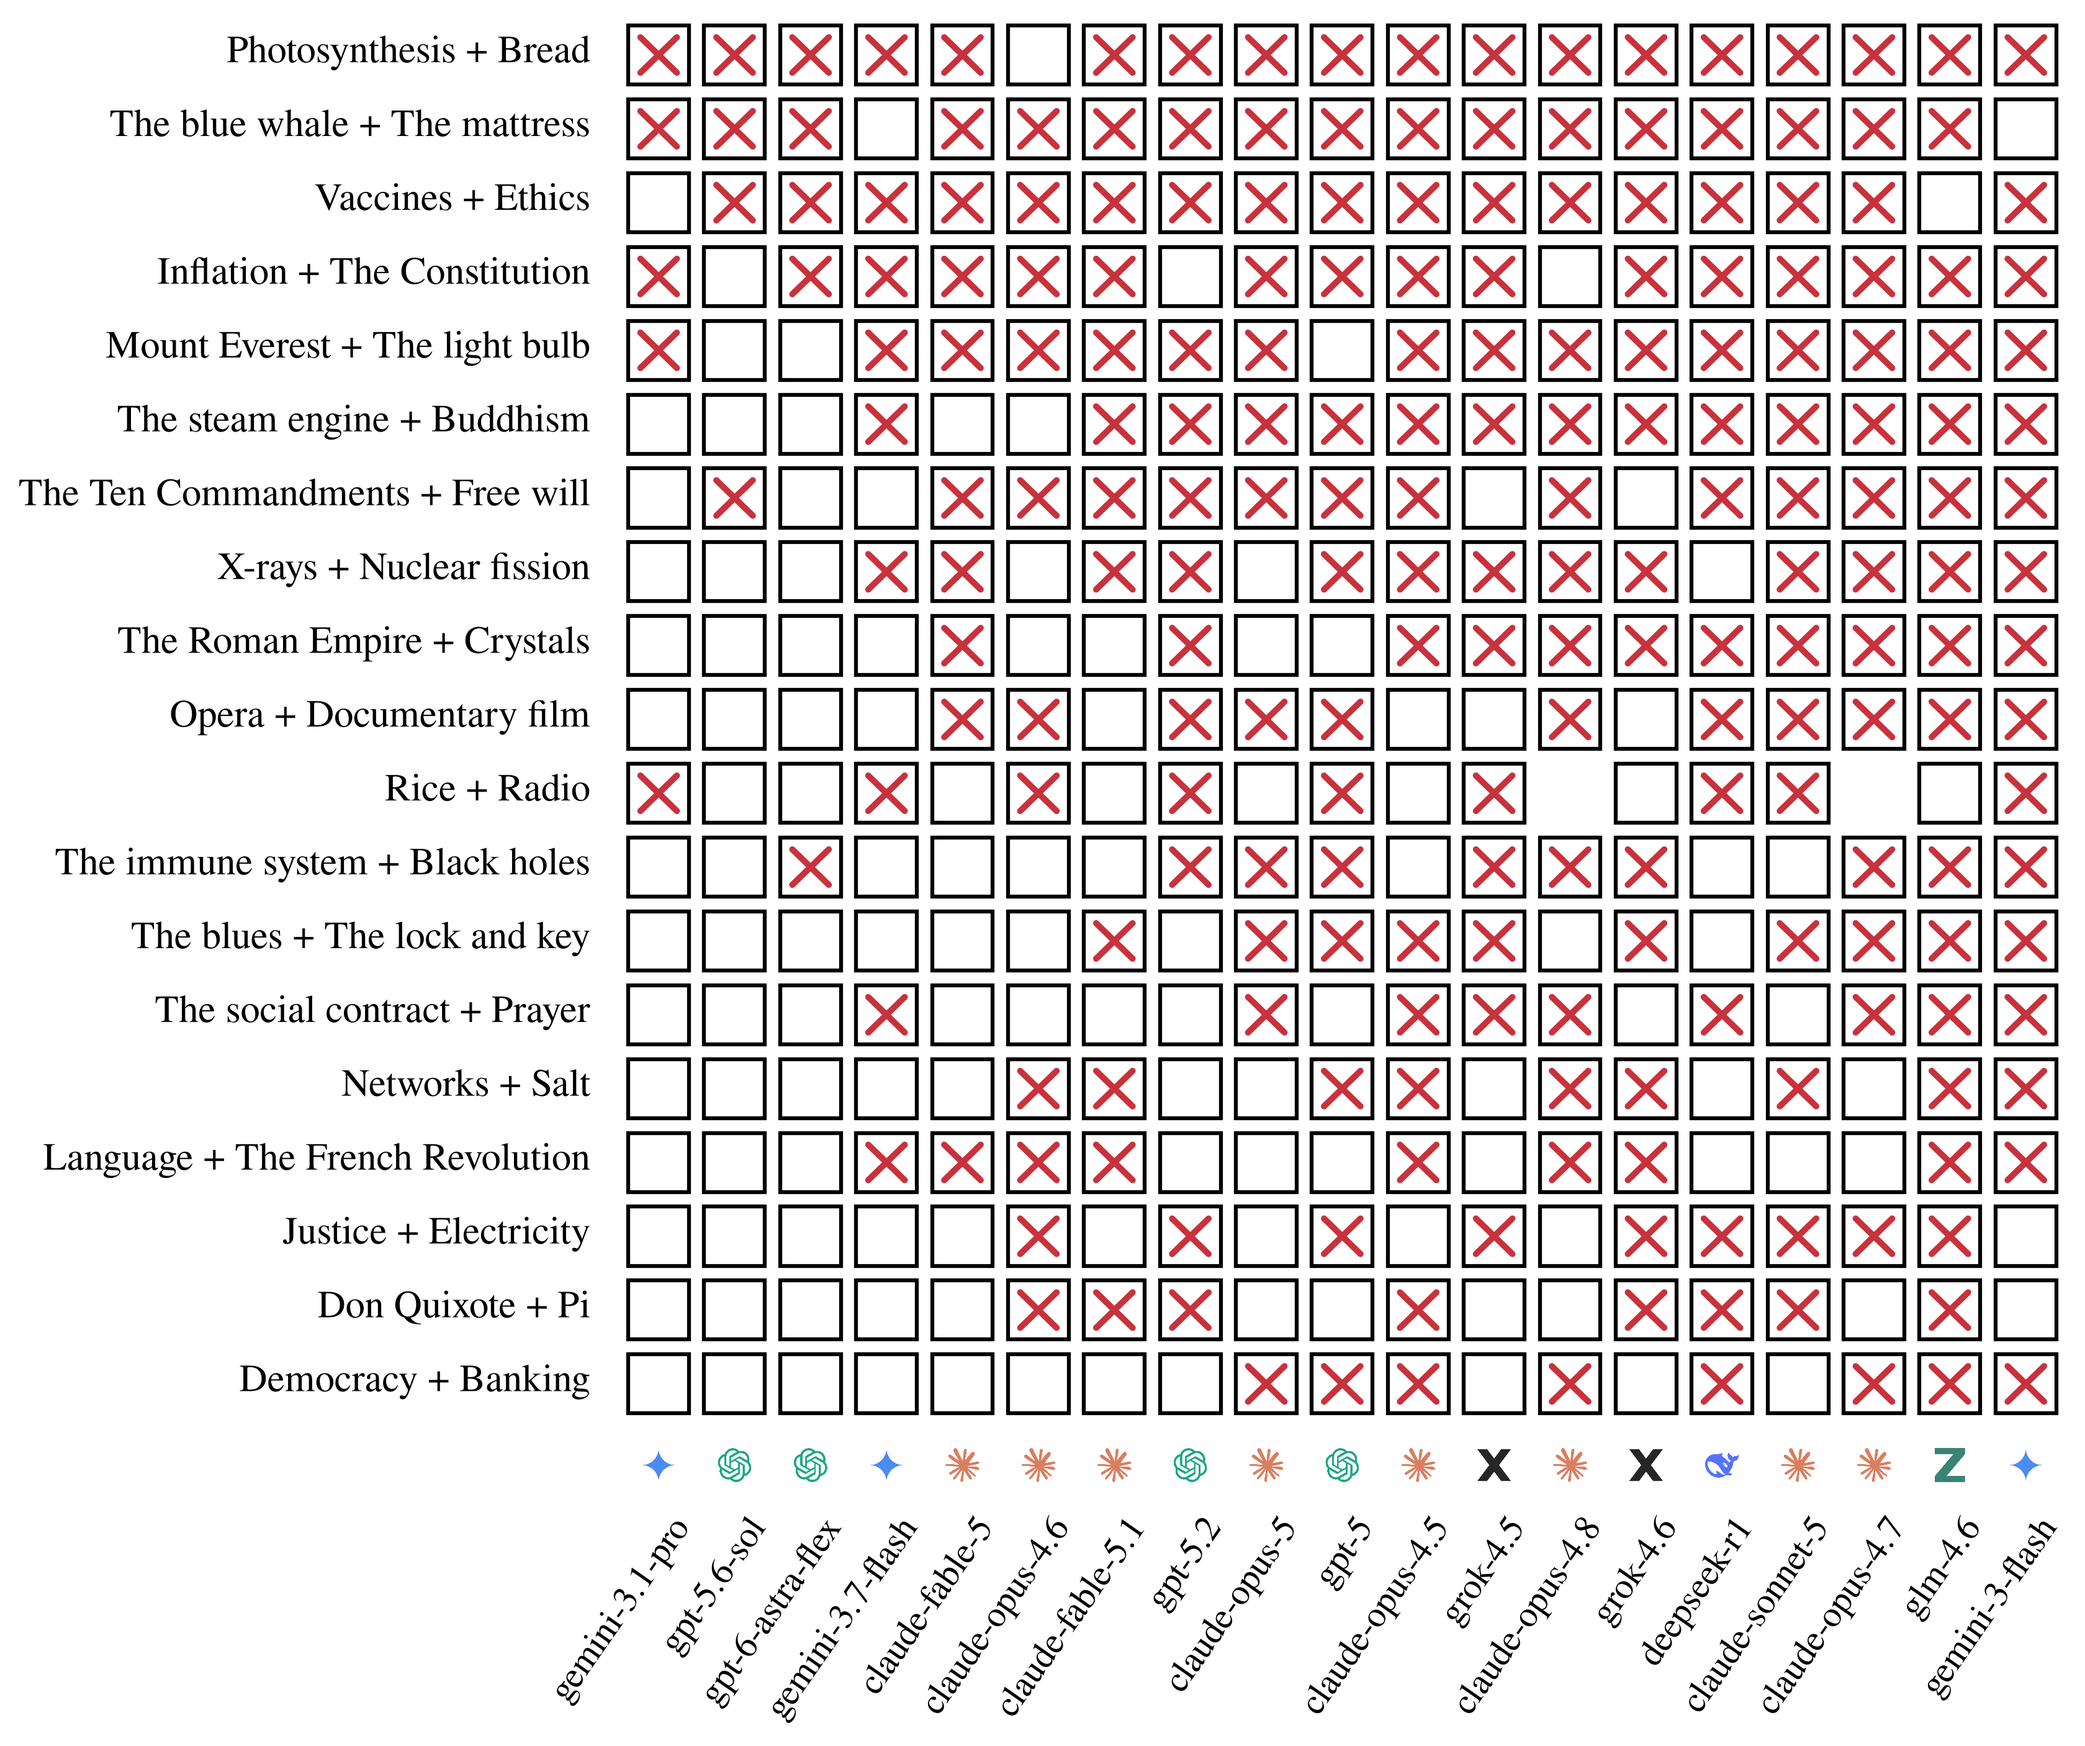
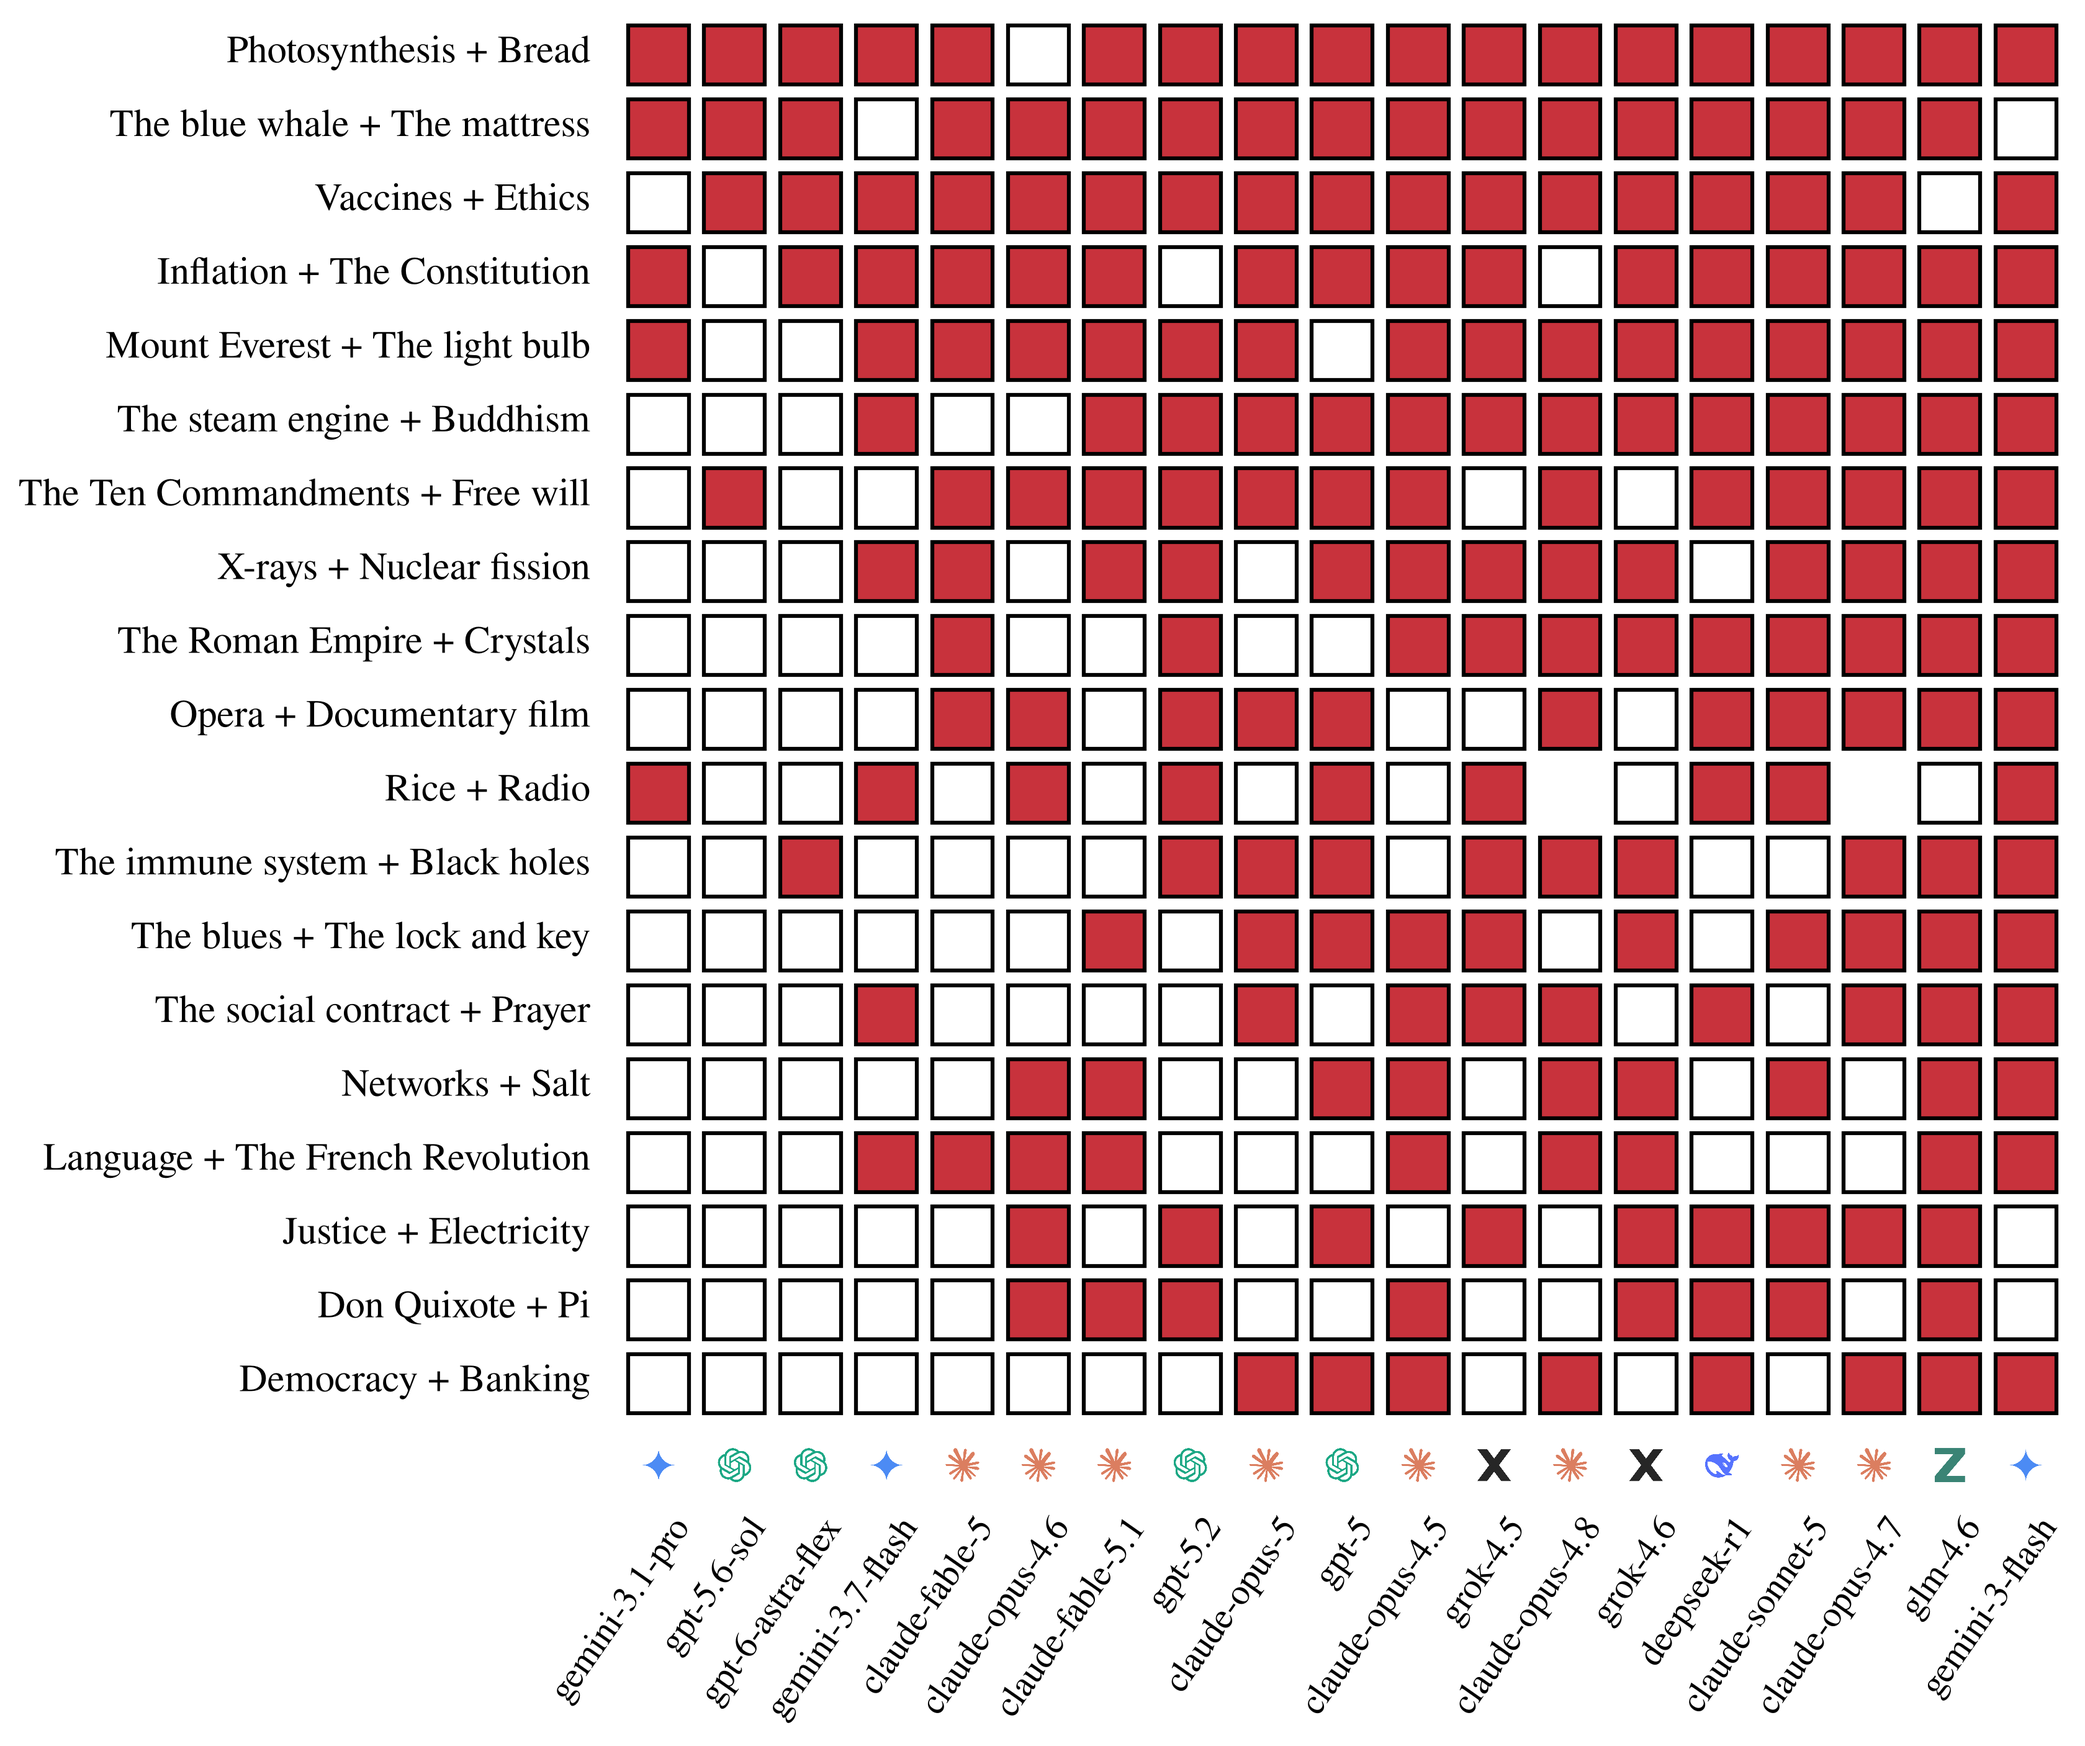
by-item failures grid: red-filled cells again (black borders kept)

diff --git a/src/kg_creat/scripts/plot_abstraction_failure.py b/src/kg_creat/scripts/plot_abstraction_failure.py
@@ -33,7 +33,7 @@ RESP = Path("data/kg_creat/kombine_test30/responses")
 OUT = Path("docs/reports/2026-09-03_kg_creat_frontier_failures/figures/fig_abstraction_failure.png")
 FILL = "#A8476A"          # rejected -- the failure is the marked state here, so it gets the warm hue
 OK = "#2F7D6E"
-CROSS = "#C8323C"         # the by-item grid marks a rejected generic space with a red cross
+CROSS = "#C8323C"         # the by-item grid fills a rejected generic space's cell in this red
 CONTRAST_ITEM = ("X-rays", "Nuclear fission")
 # The by-item grid drops this anchor pair and every easier one (rows are sorted hardest first), to
 # keep the paper figure to the items where the failure is common. The caption must say so.
@@ -155,13 +155,9 @@ def by_item(M, items, models, item_rate, model_rate, logos):
             v = M[i, j]
             if np.isnan(v):
                 continue
-            # every answered cell is an outlined square; a rejected generic space gets a red cross
-            ax.add_patch(plt.Rectangle((j - 0.4, i - 0.4), 0.8, 0.8, facecolor="none",
+            # every answered cell is a black-outlined square; a rejected generic space is filled red
+            ax.add_patch(plt.Rectangle((j - 0.4, i - 0.4), 0.8, 0.8, facecolor=CROSS if v else "none",
                                        edgecolor="black", linewidth=1.5, zorder=2))
-            if v:
-                d = 0.24
-                ax.plot([j - d, j + d], [i - d, i + d], color=CROSS, lw=2.4, solid_capstyle="round", zorder=3)
-                ax.plot([j - d, j + d], [i + d, i - d], color=CROSS, lw=2.4, solid_capstyle="round", zorder=3)
     for i, (u, v) in enumerate(items):
         ax.text(-0.9, i, f"{u} + {v}", ha="right", va="center", fontsize=15, color="black")
     for j, m in enumerate(models):
